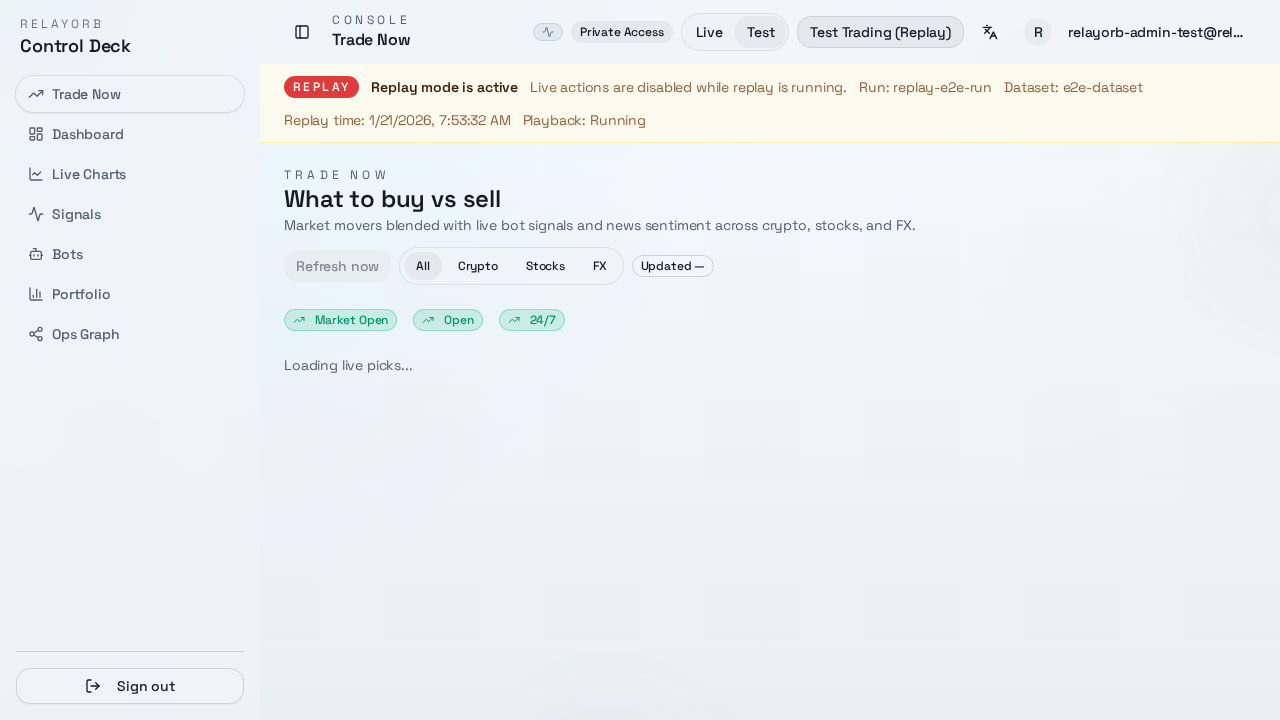
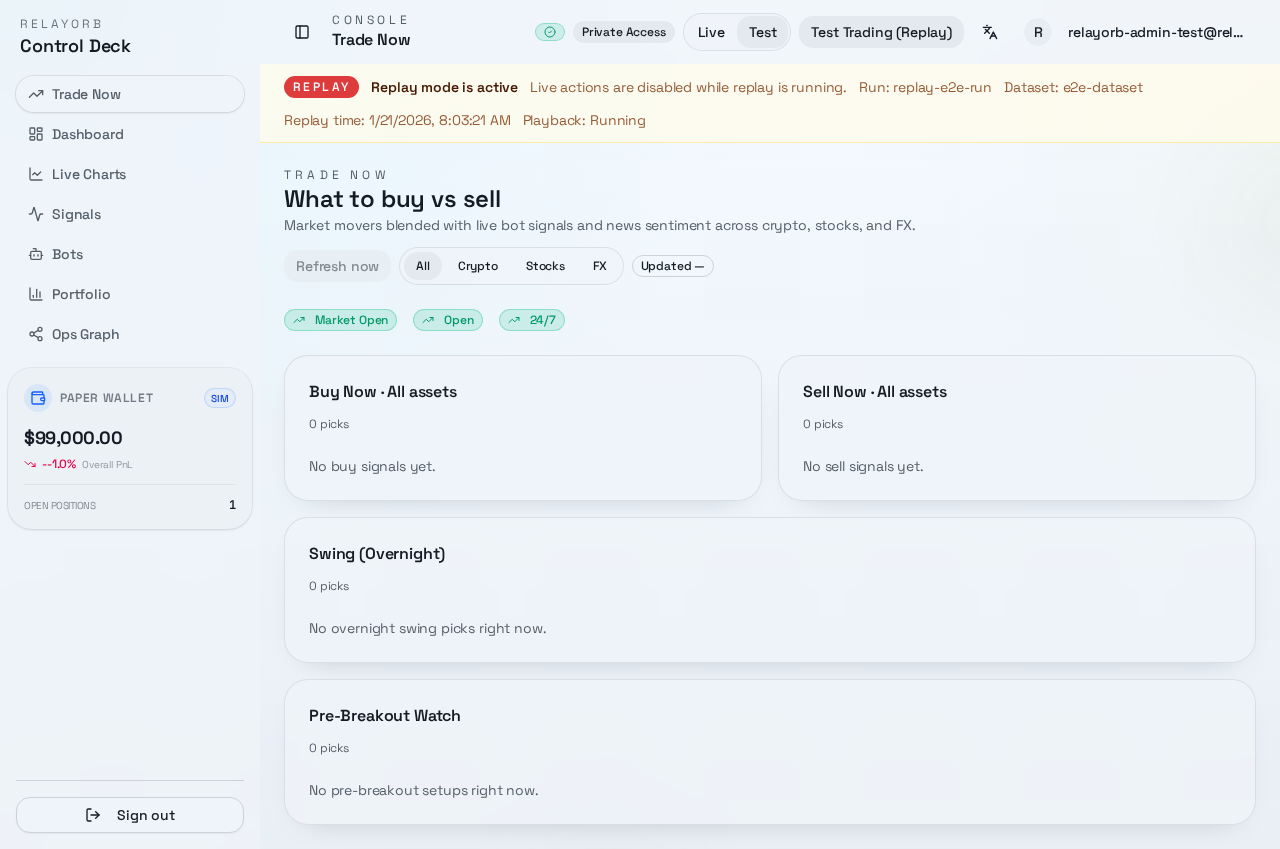
Add Pre-Breakout badge to Dashboard and TradeNow pages
Tests expected a "Pre-Breakout" badge on items in the prebreakout
card, matching the "Overnight Swing" badge pattern. Added the badge
to both DashboardPage and TradeNowPage TradeList component.

diff --git a/src/pages/DashboardPage.tsx b/src/pages/DashboardPage.tsx
@@ -4091,6 +4091,9 @@ export default function DashboardPage() {
                                   <Badge variant="outline" className="uppercase">
                                     {getAssetLabel(trade.assetClass, "short")}
                                   </Badge>
+                                  <Badge variant="secondary">
+                                    {t("tradeNow.prebreakoutBadge")}
+                                  </Badge>
                                   <div className="ml-auto flex items-center gap-1">
                                     <Button
                                       variant="ghost"

diff --git a/src/pages/TradeNowPage.tsx b/src/pages/TradeNowPage.tsx
@@ -222,6 +222,11 @@ function TradeList({
                           {t("tradeNow.swingOvernightBadge")}
                         </Badge>
                       )}
+                      {item.profile === "prebreakout" && (
+                        <Badge variant="secondary" className="text-[10px]">
+                          {t("tradeNow.prebreakoutBadge")}
+                        </Badge>
+                      )}
                       <div className="ml-auto flex items-center gap-1">
                         <Button
                           variant="ghost"
